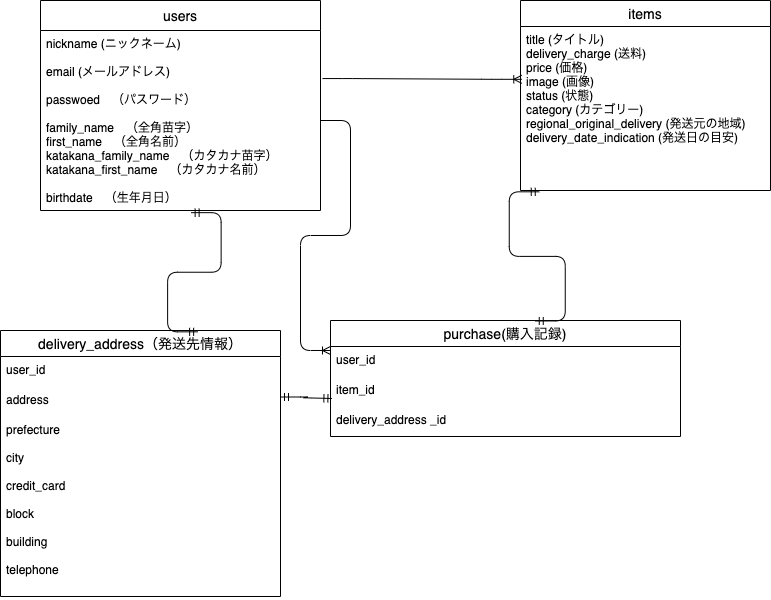
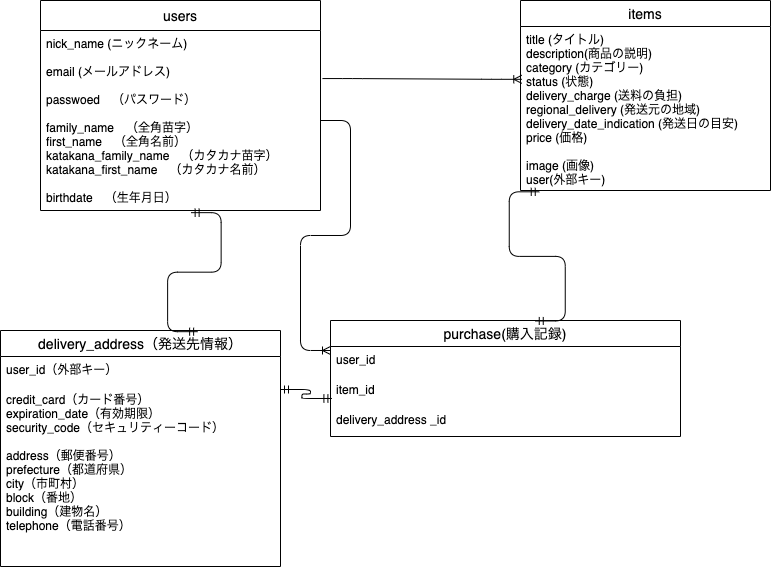
DB設計

diff --git a/README.md b/README.md
@@ -1,24 +1,79 @@
 # README
 
-This README would normally document whatever steps are necessary to get the
-application up and running.
+## users テーブル
 
-Things you may want to cover:
+| Column   | Type   | Options     |
+| -------- | ------ | ----------- |
+| nick_name     | string | null: false |
+| email    | string | null: false |
+| password | string | null: false |
+| name     | text   | null: false |
+|family_name| text   | null: false |
+| name_kana | text   | null: false |
+| family_name_kana | text   | null: false |
+| birth_date |  date  | null: false |
 
-* Ruby version
+### Association
+- has_many :item
+- has_one :order
+- has_one :delivery_address
 
-* System dependencies
 
-* Configuration
+## items テーブル
 
-* Database creation
+| Column | Type   | Options     |
+| ------ | ------ | ----------- |
+| title  | string | null: false |
+|description| text| null: false |
+|category| text   | null: false |
+|status  | text   | null: false |
+|delivery_charge| text | null: false|
+|regional_delivery|text| null: false|
+|delivery_date_indication|text| null: false|
+|price   | integer     | null: false|
+| image    | ActiveStorage       |
+| user     | references          |
 
-* Database initialization
+### Association
+- belongs_to :user
+- has_one :order
 
-* How to run the test suite
 
-* Services (job queues, cache servers, search engines, etc.)
 
-* Deployment instructions
 
-* ...
+
+
+## orders テーブル
+
+| Column | Type       | Options                        |
+| ------ | ---------- | ------------------------------ |
+| user   | references | null: false, foreign_key: true |
+|items   | references | null: false, foreign_key: true |
+| address| references | null: false, foreign_key: true |
+
+### Association
+
+- belongs_to :item
+- belongs_to :user
+- belongs_to :delivery_address
+
+
+
+## delivery_address テーブル
+| Column         | Type    | Options     |
+| -------------  | ------- | null: false |
+| credit_card    | integer | null: false |
+| expiration_date| integer | null: false |
+| security_code  | integer | null: false |
+|                |         |             |
+| address        | string  | null: false |
+| prefecture     | string  | null: false |
+| city           | string  | null: false |
+| block          | string  | null: false | 
+| building       | string  | null: false |
+| telephone      | string  | null: false |
+| user   | references | null: false, foreign_key: true |
+
+### Association
+- belongs_to :item
+- has_one :delivery_address
